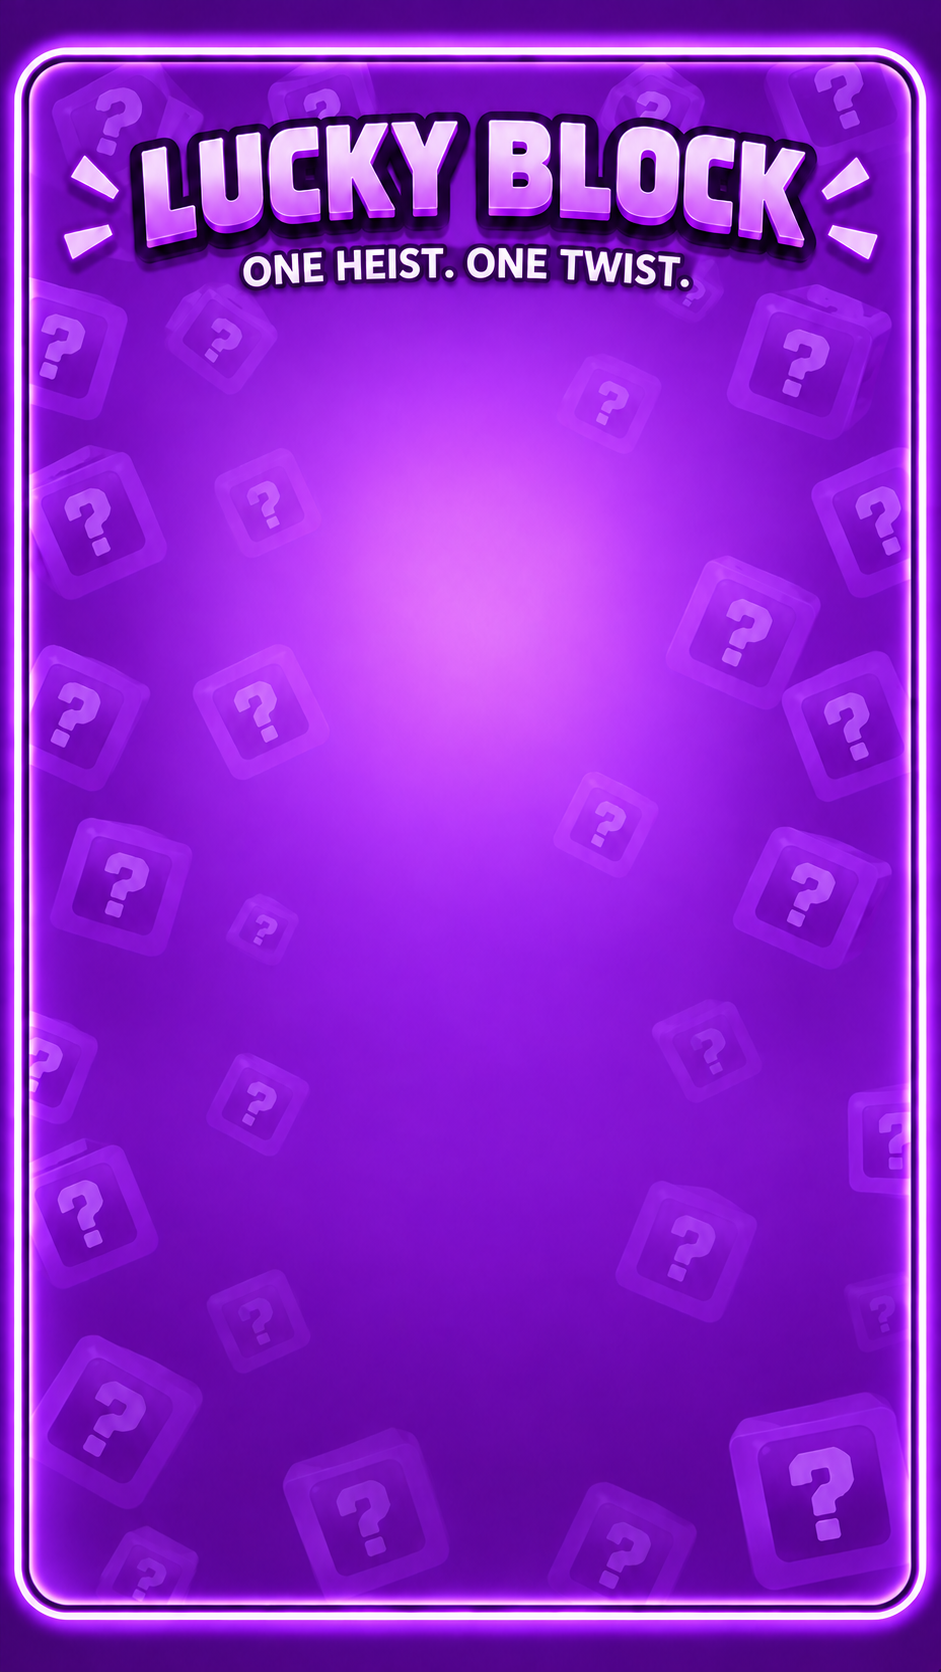
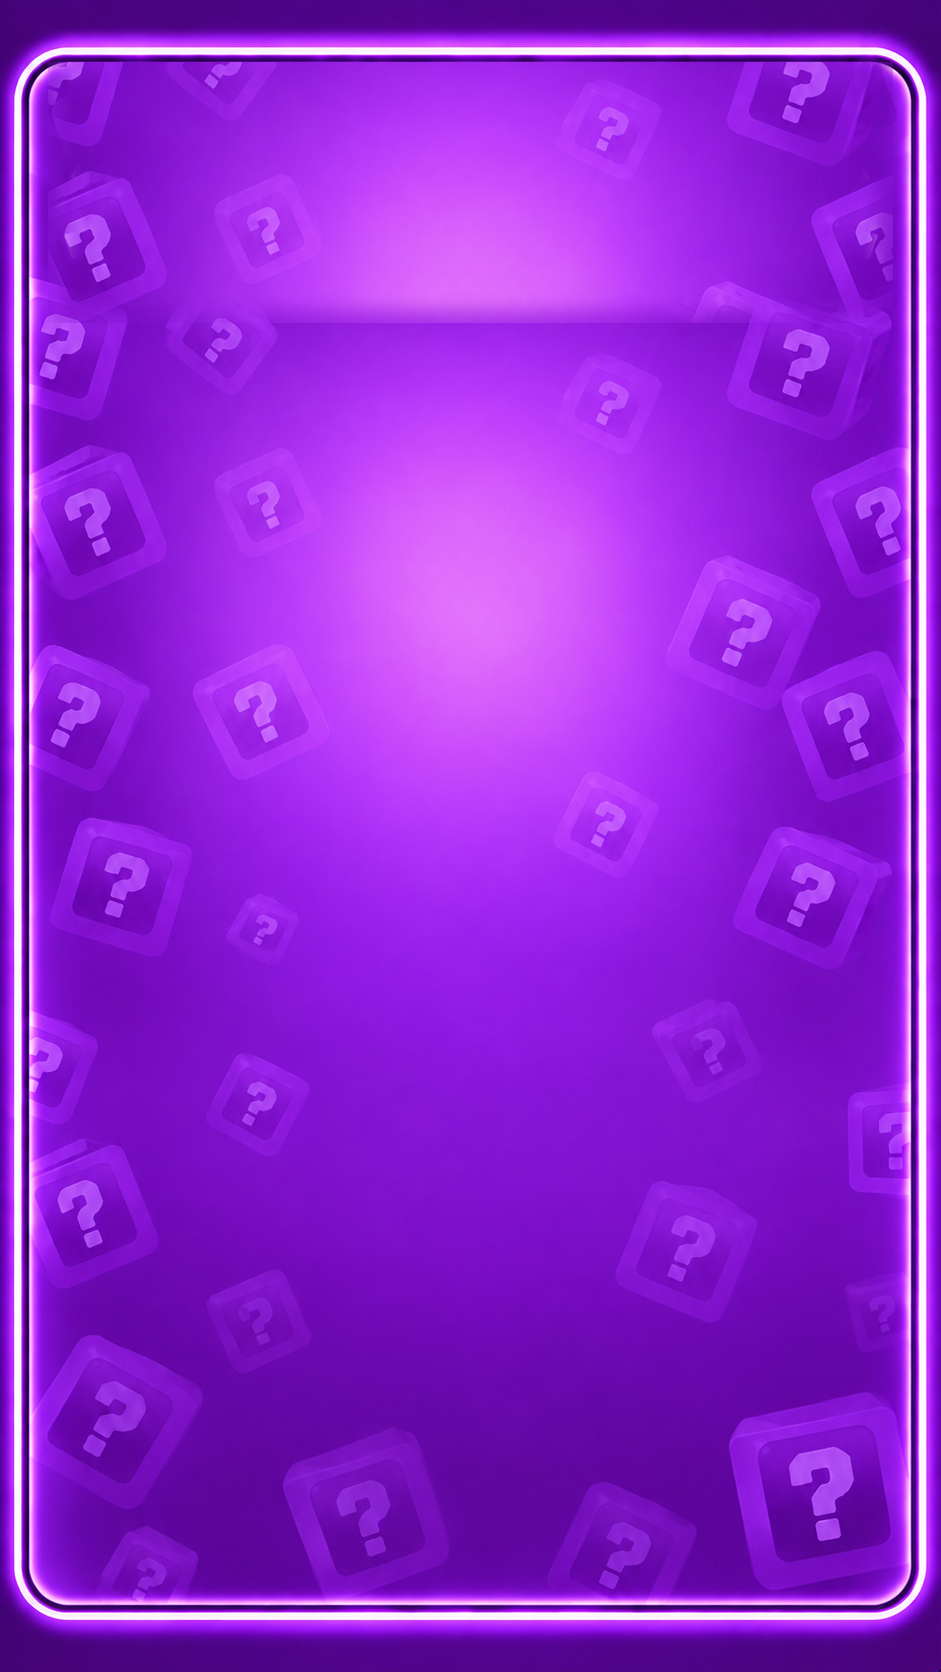
Replace AI-generated artwork text with plain labels
Baked titles in the Lucky Block frames and the Lucky Wheel stage are erased
from the textures; ESCAPED!/BUSTED!, the Home logo, the card titles and the
wheel captions are now plain labels without outlines, so the UI has no
AI-rendered lettering left.

Claude-Session: https://claude.ai/code/session_01MLSxtWac7fGyp4D56WcCvq

Changed region(s): [[0.0616, 0.0311, 0.9554, 0.2177]]

diff --git a/new-game-project/PURPLE_LUCKY_BLOCKS.md b/new-game-project/PURPLE_LUCKY_BLOCKS.md
@@ -1,3 +1,5 @@
+> **0.9.85:** textul copt în cadrele generate („LUCKY BLOCK / ONE HEIST. ONE TWIST.”) a fost șters din PNG-uri; titlul este acum text simplu desenat de `lucky_reveal.gd`, fără outline. Aceeași regulă pentru ESCAPED!/BUSTED! (Results), logo-ul Home și scena Lucky Wheel: fără text generat de AI în imagini.
+
 # Purple Lucky Blocks — 0.9.83
 
 Same layout, animation timings, interactions, spawn probability and effect mechanics. Positive card background, cube and ring recolored purple with ImageGen. Negative card retains warning red, with purple cracked cube and fragments. Live 3D model and run marker now purple with white question marks.

diff --git a/new-game-project/RESULTS_MOTION_V3.md b/new-game-project/RESULTS_MOTION_V3.md
@@ -24,8 +24,8 @@ captured frames; tests/capture_result_motion.gd can reproduce the capture.
 
 ## Art tools / saved assets
 Built-in image_gen.imagegen edited the previously supplied result reference.
-assets/ui/results/alley-clean.png and assets/ui/results/escaped-title.png are the
-new background and separate alpha sprite. The cash is the existing 3D mesh;
+assets/ui/results/alley-clean.png is the
+new background; the ESCAPED!/BUSTED! headlines are plain labels without outline (no AI-generated text). The cash is the existing 3D mesh;
 assets/ui/results/banknote.svg is a native vector currency particle.
 
 Background prompt:

diff --git a/new-game-project/FAILED_MOTION_V1.md b/new-game-project/FAILED_MOTION_V1.md
@@ -24,7 +24,7 @@ Capture command: Godot --path . --script tests/capture_result_motion.gd -- --fai
 ## Assets and prompts
 Built-in image_gen.imagegen, edited from assets/ui/results/busted.png (the user's
 previous failure-screen reference). Saved assets:
-- assets/ui/results/busted-title.png
+- ESCAPED!/BUSTED! sunt acum Label-uri simple, fără outline (fără text generat de AI)
 - assets/ui/results/busted-emblem.png
 The existing assets/ui/results/alley-clean.png is reused as the background.
 
